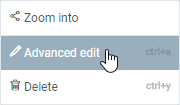
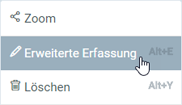
Translated "advanced edit" in DE
- translated with "erweiterte erfassung"
- updated pngs in EN+DE

(this is about issue #301 )

diff --git a/_webui_collection/DE/Liste_Keyboard_Shortcuts.md b/_webui_collection/DE/Liste_Keyboard_Shortcuts.md
@@ -31,7 +31,7 @@ In metasfresh kannst Du in verschiedenen Kontexten einige Prozesse mithilfe best
 | :---: | :---: | :--- |
 | `Alt` + `A` | `⌥ alt` + `A` | Alle Zeilen auswählen bzw. zwischen "Alle Zeilen dieser Seite auswählen" und "Wähle alle ## Zeilen" wechseln |
 | `Alt` + `B` | `⌥ alt` + `B` | Ausgewähltes Dokument in neuem Fenster öffnen |
-| `Alt` + `E` | `⌥ alt` + `E` | "Advanced Edit"-Fenster für ausgewähltes Dokument öffnen |
+| `Alt` + `E` | `⌥ alt` + `E` | Fenster "Erweiterte Erfassung" für ausgewähltes Dokument öffnen |
 | `Alt` + `Y` | `⌥ alt` + `Y` | Ausgewähltes Dokument löschen |
 
 ### Kontext: Dokument ([Einzelansicht](Ansichten))
@@ -51,7 +51,7 @@ In metasfresh kannst Du in verschiedenen Kontexten einige Prozesse mithilfe best
 
 | Tastenkombination <br> (Windows) | Tastenkombination <br> (MacOS) | Befehl |
 | :---: | :---: | :--- |
-| `Alt` + `E` | `⌥ alt` + `E` | "Advanced Edit"-Fenster für ausgewählten Eintrag öffnen |
+| `Alt` + `E` | `⌥ alt` + `E` | Fenster "Erweiterte Erfassung" für ausgewählten Eintrag öffnen |
 | `Alt` + `Q` | `⌥ alt` + `Q` | Auftragszeileneingabe (Massenerfassung) öffnen |
 | `Alt` + `Y` | `⌥ alt` + `Y` | Ausgewählten Eintrag löschen |
 | `Alt` + `+` | `⌥ alt` + `+` | Registerkarte komplett darstellen |

diff --git a/_webui_collection/DE/Neuer_Geschaeftspartner_Lieferant.md b/_webui_collection/DE/Neuer_Geschaeftspartner_Lieferant.md
@@ -17,7 +17,7 @@ In metasfresh kannst Du definieren, ob ein Geschäftspartner ein Kunde, Lieferan
 ### Geschäftspartner als Lieferant
 1. Öffne einen [Geschäftspartner](Neuer_Geschaeftspartner)eintrag in der [Einzelansicht](Ansichten).
 1. Gehe zur Registerkarte "Lieferant" unten auf der Seite.
-1. Öffne das ["Advanced Edit"-Menü](AdvancedEditTab_Öffnen) der Lieferantenzeile.
+1. Öffne die ["Erweiterte Erfassung"](AdvancedEditTab_Öffnen) der Lieferantenzeile.
 1. Setze ein Häkchen bei **Lieferant**.
 1. Optional kannst Du weitere Bedingungen hinzufügen, wie z.B. **Zahlungsweise**, **Lieferung** ('*wird abgeholt*' oder '*geliefert*'), **Zahlungsbedingung**, **Einkaufspreissystem** usw.
 1. Klicke auf "Bestätigen", um das Fenster zu schließen und die Konditionen zur Registerkarte hinzuzufügen.

diff --git a/_webui_collection/DE/AdvancedEditTab_Öffnen.md b/_webui_collection/DE/AdvancedEditTab_Öffnen.md
@@ -1,5 +1,5 @@
 ---
-title: Wie öffne ich das "Advanced Edit"-Menü in einer Registerkarte?
+title: Wie öffne ich die "Erweiterte Erfassung" in einer Registerkarte?
 layout: default
 tags:
   - Benutzung
@@ -12,7 +12,7 @@ ref: open_advancededittab
 ## Schritte
 1. Gehe zur betreffenden Registerkarte, z.B. "Kunde" unter "Geschäftspartner".
 1. Gehe mit dem Mauszeiger über die betreffende Zeile und öffne mit einem Rechtsklick das Kontextmenü.
-1. Klicke auf "Advanced edit", um das "Advanced Edit"-Menü zu öffnen.
+1. Klicke auf "Erweiterte Erfassung", um das Menü für die erweiterte Erfassung zu öffnen.
  >**Hinweis:** Drücke alternativ `Alt` + `E` / `⌥ alt` + `E`, wenn Du die betreffende Zeile ausgewählt hast.
 
  ![](assets/AdvancedEdit_KontextMenü.png)

diff --git a/_webui_collection/DE/Neuer_Geschaeftspartner_Kunde.md b/_webui_collection/DE/Neuer_Geschaeftspartner_Kunde.md
@@ -17,7 +17,7 @@ In metasfresh kannst Du definieren, ob ein Geschäftspartner ein Kunde, Lieferan
 ### Geschäftspartner als Kunde
 1. Öffne einen [Geschäftspartner](Neuer_Geschaeftspartner)eintrag in der [Einzelansicht](Ansichten).
 1. Gehe zur Registerkarte "Kunde" unten auf der Seite.
-1. Öffne das ["Advanced Edit"-Menü](AdvancedEditTab_Öffnen) der Kundenzeile.
+1. Öffne die ["Erweiterte Erfassung"](AdvancedEditTab_Öffnen) der Kundenzeile.
 1. Setze ein Häkchen bei **Kunde**.
 1. Optional kannst Du weitere Bedingungen hinzufügen, wie z.B. **Zahlungsweise**, **Kreditlimit**, **Zahlungsbedingung**, **Preissystem** usw.
 1. Klicke auf "Bestätigen", um das Fenster zu schließen und die Konditionen zur Registerkarte hinzuzufügen.

diff --git a/_webui_collection/DE/Gegenwaertigen_Lieferanten_festlegen.md b/_webui_collection/DE/Gegenwaertigen_Lieferanten_festlegen.md
@@ -12,7 +12,7 @@ ref: set_default_vendor
 ## Schritte
 1. Öffne den Eintrag eines bestehenden [Produkts](Menu) bzw. [lege ein neues an](NeuesProdukt).
 1. Gehe zur Registerkarte "Geschäftspartner" unten auf der Seite.
-1. Öffne das ["Advanced Edit"-Menü](AdvancedEditTab_Öffnen) des [verknüpften](Produkt_mit_Geschaeftspartner_verknuepfen) [Lieferanten](Neuer_Geschaeftspartner_Lieferant).
+1. Öffne die ["Erweiterte Erfassung"](AdvancedEditTab_Öffnen) des [verknüpften](Produkt_mit_Geschaeftspartner_verknuepfen) [Lieferanten](Neuer_Geschaeftspartner_Lieferant).
 1. Setze ein Häkchen bei **Gegenwärtiger Lieferant**.
 1. Klicke auf "Bestätigen", um die Änderungen zu übernehmen und das Fenster zu schließen.
 

diff --git a/_webui_collection/DE/Mahnart_mit_Partner_verknuepfen.md b/_webui_collection/DE/Mahnart_mit_Partner_verknuepfen.md
@@ -16,7 +16,7 @@ Damit eine Mahnart in Verbindung mit einem Partner wirksam wird, musst Du sie er
 
 ### Schritte
 1. Öffne den Eintrag eines bestehenden Kunden aus Deinen [Geschäftspartnern](Menu) bzw. [lege einen neuen an](Neuer_Geschaeftspartner_Kunde).
-1. Gehe zur Registerkarte "Kunde" unten auf der Seite und öffne das ["Advanced Edit"-Menü](AdvancedEditTab_Öffnen) der Kundenzeile.
+1. Gehe zur Registerkarte "Kunde" unten auf der Seite und öffne die ["Erweiterte Erfassung"](AdvancedEditTab_Öffnen) der Kundenzeile.
  >**Hinweis:** Der Geschäftspartner muss als Kunde registriert sein, damit die Mahnfunktion verfügbar wird.
 
 1. Im Feld **Mahnung** kannst Du die gewünschte Mahnart einstellen.

diff --git a/_webui_collection/DE/Sammelrechnung_aktivieren.md b/_webui_collection/DE/Sammelrechnung_aktivieren.md
@@ -12,7 +12,7 @@ ref: enable_collectivebill
 1. [Gehe ins Menü](Menu) und öffne das Fenster "Geschäftspartner".
 1. Wähle den Geschäftspartner in der [Listenansicht](Ansichten) aus.
 1. Gehe zur Registerkarte "Kunde" unten auf der Seite.
-1. Öffne das ["Advanced Edit"-Menü](AdvancedEditTab_Öffnen) der Kundenzeile.
+1. Öffne die ["Erweiterte Erfassung"](AdvancedEditTab_Öffnen) der Kundenzeile.
 1. Stelle im Feld **Aggregationsregel für Ausgangsrechnung** die gewünschte Aggregation ein.
  >**Hinweis:** Im Normalfall "invoicing-agg-std" wählen.
 

diff --git a/_webui_collection/EN/Open_AdvancedEditTab.md b/_webui_collection/EN/Open_AdvancedEditTab.md
@@ -15,7 +15,7 @@ ref: open_advancededittab
 1. Click on "Advanced edit" to open the advanced edit menu.
  >**Note:** Alternatively, press `Alt` + `E` / `⌥ alt` + `E` when the regarding line is selected.
 
- ![](assets/AdvancedEdit_KontextMenü.png)
+ ![](assets/AdvancedEdit_ContextMenu.png)
 
 ## Example
 ![](assets/AdvancedEditTab_Open.gif)
